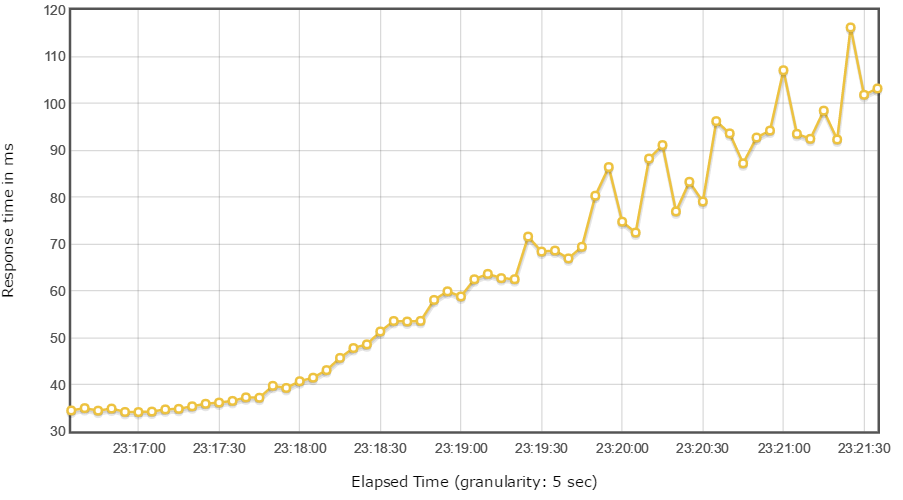
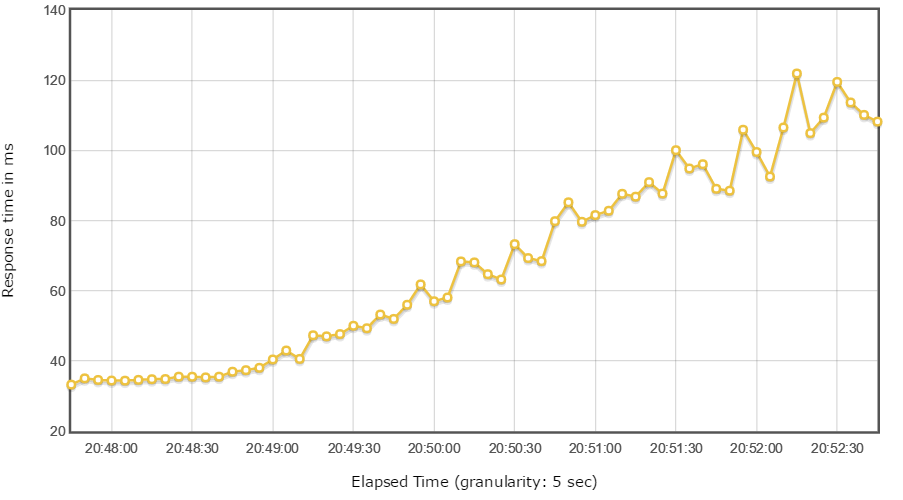
update with new relay measurements

diff --git a/BENCHMARK.md b/BENCHMARK.md
@@ -140,9 +140,9 @@ Benchmarks have been configured to run for 300 seconds. A benchmark starts with 
 
 | Technology | Error     | Average Response Time (ms) | 90th Percentile (ms) | 95th Percentile (ms) | 99th Percentile (ms) | Throughput  |
 | ---------- | --------- | -------------------------- | -------------------- | -------------------- | -------------------- | ----------- |
-| .NET Core  | __0.00%__ | 69.56                      | 134                  | 141                  | __159__              | 2160.11     |
-| Go         | 0.01%     | __50.83__                  | __57__               | __67__               | 3081                 | __2908.68__ |
-| NodeJS     | __0.00%__ | 119.25                     | 280                  | 324                  | 363                  | 1261.04     |
+| .NET Core  | __0.00%__ | 74.20                      | 133                  | 144                  | __169__              | 2023.62     |
+| Go         | 0.01%     | __53.83__                  | __63__               | __69__               | 3150                 | __2726.88__ |
+| NodeJS     | __0.00%__ | 108.03                     | 240                  | 286                  | 327                  | 426.82     |
 
 #### Response Time Over Threads
 
